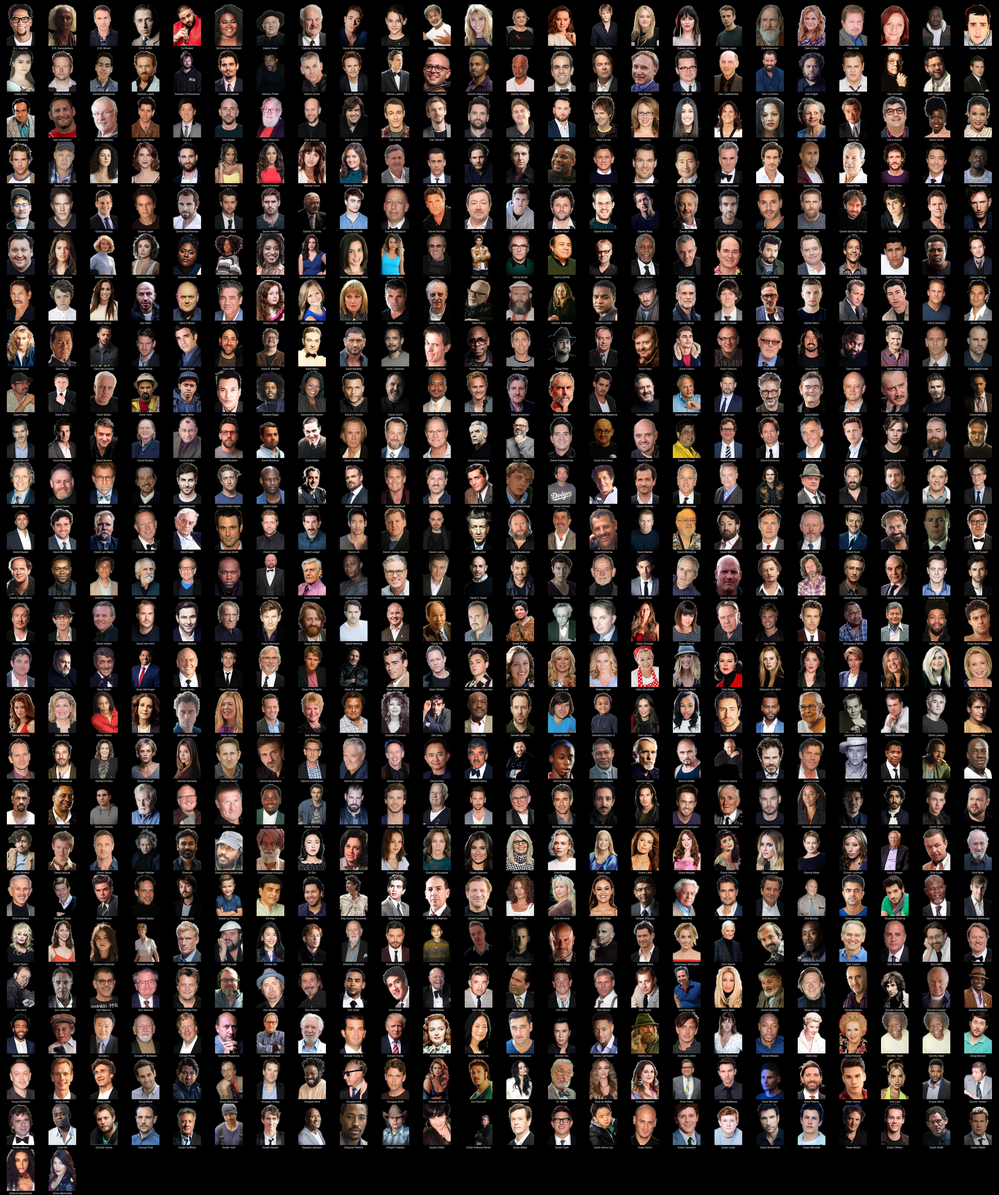
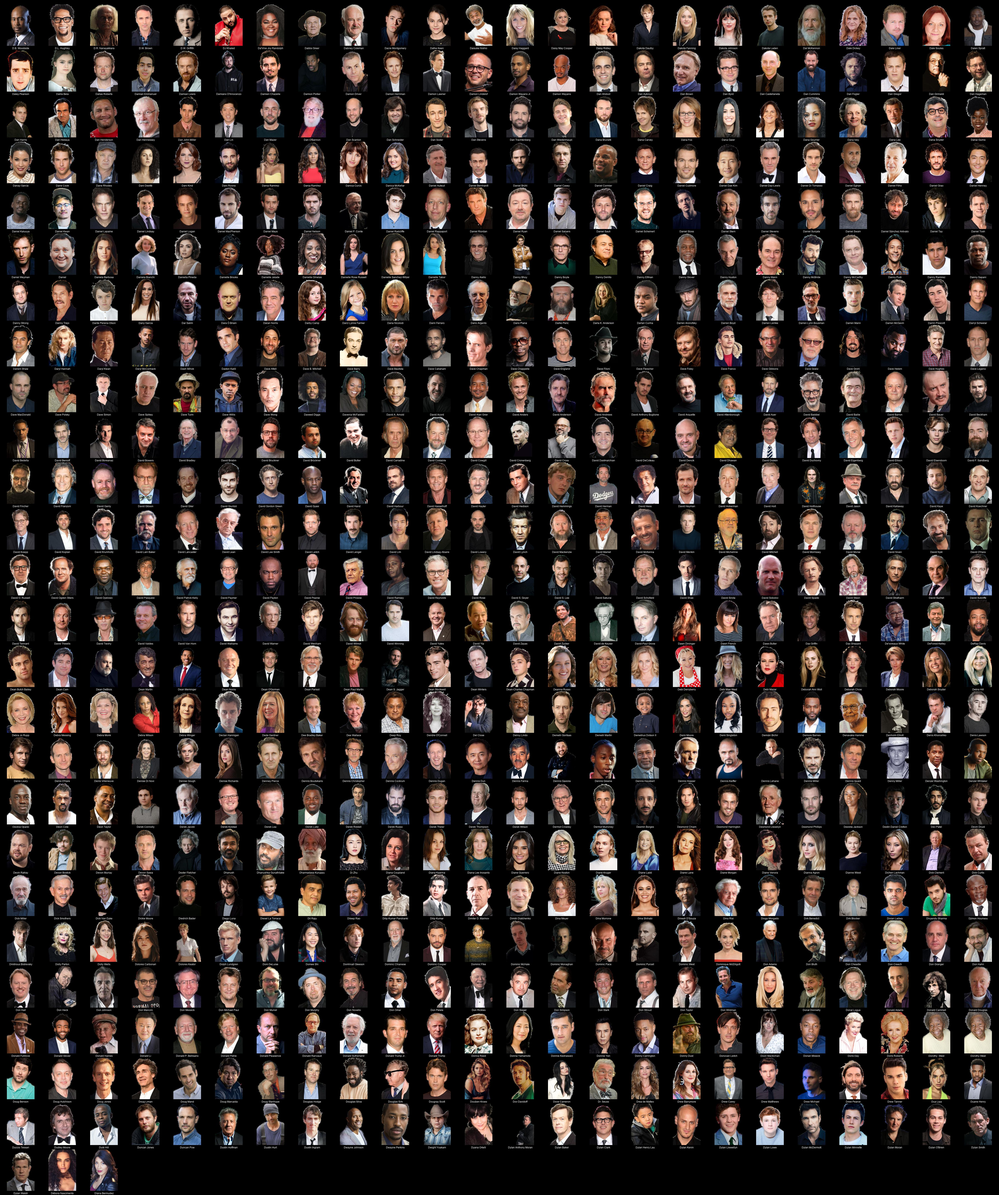
more people

diff --git a/A/README.md b/A/README.md
@@ -1,4 +1,4 @@
-# Kometa People Images - Transparent (transparent) - A (739 Images)
+# Kometa People Images - Transparent (transparent) - A (744 Images)
 ![Grid](grid.jpg)
 
 * [Aamir Khan](https://raw.githubusercontent.com/Kometa-Team/People-Images-transparent/master/A/Images/Aamir%20Khan.png)
@@ -19,6 +19,7 @@
 * [Aaron Ryder](https://raw.githubusercontent.com/Kometa-Team/People-Images-transparent/master/A/Images/Aaron%20Ryder.png)
 * [Aaron Schneider](https://raw.githubusercontent.com/Kometa-Team/People-Images-transparent/master/A/Images/Aaron%20Schneider.png)
 * [Aaron Schwartz](https://raw.githubusercontent.com/Kometa-Team/People-Images-transparent/master/A/Images/Aaron%20Schwartz.png)
+* [Aaron Seltzer](https://raw.githubusercontent.com/Kometa-Team/People-Images-transparent/master/A/Images/Aaron%20Seltzer.png)
 * [Aaron Sorkin](https://raw.githubusercontent.com/Kometa-Team/People-Images-transparent/master/A/Images/Aaron%20Sorkin.png)
 * [Aaron Stanford](https://raw.githubusercontent.com/Kometa-Team/People-Images-transparent/master/A/Images/Aaron%20Stanford.png)
 * [Aaron Taylor-Johnson](https://raw.githubusercontent.com/Kometa-Team/People-Images-transparent/master/A/Images/Aaron%20Taylor-Johnson.png)
@@ -188,6 +189,7 @@
 * [Alastair Mackenzie](https://raw.githubusercontent.com/Kometa-Team/People-Images-transparent/master/A/Images/Alastair%20Mackenzie.png)
 * [Alba Flores](https://raw.githubusercontent.com/Kometa-Team/People-Images-transparent/master/A/Images/Alba%20Flores.png)
 * [Alba Rohrwacher](https://raw.githubusercontent.com/Kometa-Team/People-Images-transparent/master/A/Images/Alba%20Rohrwacher.png)
+* [Albano Jerónimo](https://raw.githubusercontent.com/Kometa-Team/People-Images-transparent/master/A/Images/Albano%20Jer%C3%B3nimo.png)
 * [Albert Brooks](https://raw.githubusercontent.com/Kometa-Team/People-Images-transparent/master/A/Images/Albert%20Brooks.png)
 * [Albert Finney](https://raw.githubusercontent.com/Kometa-Team/People-Images-transparent/master/A/Images/Albert%20Finney.png)
 * [Albert Hughes](https://raw.githubusercontent.com/Kometa-Team/People-Images-transparent/master/A/Images/Albert%20Hughes.png)
@@ -431,6 +433,7 @@
 * [Andrew Garfield](https://raw.githubusercontent.com/Kometa-Team/People-Images-transparent/master/A/Images/Andrew%20Garfield.png)
 * [Andrew Havill](https://raw.githubusercontent.com/Kometa-Team/People-Images-transparent/master/A/Images/Andrew%20Havill.png)
 * [Andrew Jack](https://raw.githubusercontent.com/Kometa-Team/People-Images-transparent/master/A/Images/Andrew%20Jack.png)
+* [Andrew Kevin Walker](https://raw.githubusercontent.com/Kometa-Team/People-Images-transparent/master/A/Images/Andrew%20Kevin%20Walker.png)
 * [Andrew Koji](https://raw.githubusercontent.com/Kometa-Team/People-Images-transparent/master/A/Images/Andrew%20Koji.png)
 * [Andrew Lanham](https://raw.githubusercontent.com/Kometa-Team/People-Images-transparent/master/A/Images/Andrew%20Lanham.png)
 * [Andrew Lau](https://raw.githubusercontent.com/Kometa-Team/People-Images-transparent/master/A/Images/Andrew%20Lau.png)
@@ -535,6 +538,7 @@
 * [Anna Torv](https://raw.githubusercontent.com/Kometa-Team/People-Images-transparent/master/A/Images/Anna%20Torv.png)
 * [Anna Wilson-Jones](https://raw.githubusercontent.com/Kometa-Team/People-Images-transparent/master/A/Images/Anna%20Wilson-Jones.png)
 * [Anna-Grace Hopkins](https://raw.githubusercontent.com/Kometa-Team/People-Images-transparent/master/A/Images/Anna-Grace%20Hopkins.png)
+* [Anna-Maria Sieklucka](https://raw.githubusercontent.com/Kometa-Team/People-Images-transparent/master/A/Images/Anna-Maria%20Sieklucka.png)
 * [AnnaSophia Robb](https://raw.githubusercontent.com/Kometa-Team/People-Images-transparent/master/A/Images/AnnaSophia%20Robb.png)
 * [Annabel Scholey](https://raw.githubusercontent.com/Kometa-Team/People-Images-transparent/master/A/Images/Annabel%20Scholey.png)
 * [Annabelle Wallis](https://raw.githubusercontent.com/Kometa-Team/People-Images-transparent/master/A/Images/Annabelle%20Wallis.png)
@@ -615,6 +619,7 @@
 * [Anurag Kashyap](https://raw.githubusercontent.com/Kometa-Team/People-Images-transparent/master/A/Images/Anurag%20Kashyap.png)
 * [Anushka Shetty](https://raw.githubusercontent.com/Kometa-Team/People-Images-transparent/master/A/Images/Anushka%20Shetty.png)
 * [Anuvab Pal](https://raw.githubusercontent.com/Kometa-Team/People-Images-transparent/master/A/Images/Anuvab%20Pal.png)
+* [Anya Chalotra](https://raw.githubusercontent.com/Kometa-Team/People-Images-transparent/master/A/Images/Anya%20Chalotra.png)
 * [Anya Taylor-Joy](https://raw.githubusercontent.com/Kometa-Team/People-Images-transparent/master/A/Images/Anya%20Taylor-Joy.png)
 * [Aoi Miyazaki](https://raw.githubusercontent.com/Kometa-Team/People-Images-transparent/master/A/Images/Aoi%20Miyazaki.png)
 * [Aparshakti Khurana](https://raw.githubusercontent.com/Kometa-Team/People-Images-transparent/master/A/Images/Aparshakti%20Khurana.png)

diff --git a/B/README.md b/B/README.md
@@ -1,4 +1,4 @@
-# Kometa People Images - Transparent (transparent) - B (459 Images)
+# Kometa People Images - Transparent (transparent) - B (460 Images)
 ![Grid](grid.jpg)
 
 * [B.J. Penn](https://raw.githubusercontent.com/Kometa-Team/People-Images-transparent/master/B/Images/B.J.%20Penn.png)
@@ -14,6 +14,7 @@
 * [Bam Margera](https://raw.githubusercontent.com/Kometa-Team/People-Images-transparent/master/B/Images/Bam%20Margera.png)
 * [Bambadjan Bamba](https://raw.githubusercontent.com/Kometa-Team/People-Images-transparent/master/B/Images/Bambadjan%20Bamba.png)
 * [Barack Obama](https://raw.githubusercontent.com/Kometa-Team/People-Images-transparent/master/B/Images/Barack%20Obama.png)
+* [Barbara Białowąs](https://raw.githubusercontent.com/Kometa-Team/People-Images-transparent/master/B/Images/Barbara%20Bia%C5%82ow%C4%85s.png)
 * [Barbara Bouchet](https://raw.githubusercontent.com/Kometa-Team/People-Images-transparent/master/B/Images/Barbara%20Bouchet.png)
 * [Barbara Broccoli](https://raw.githubusercontent.com/Kometa-Team/People-Images-transparent/master/B/Images/Barbara%20Broccoli.png)
 * [Barbara Carrera](https://raw.githubusercontent.com/Kometa-Team/People-Images-transparent/master/B/Images/Barbara%20Carrera.png)

diff --git a/D/README.md b/D/README.md
@@ -1,6 +1,7 @@
-# Kometa People Images - Transparent (transparent) - D (602 Images)
+# Kometa People Images - Transparent (transparent) - D (603 Images)
 ![Grid](grid.jpg)
 
+* [D.B. Woodside](https://raw.githubusercontent.com/Kometa-Team/People-Images-transparent/master/D/Images/D.B.%20Woodside.png)
 * [D.L. Hughley](https://raw.githubusercontent.com/Kometa-Team/People-Images-transparent/master/D/Images/D.L.%20Hughley.png)
 * [D.R. Nanayakkara](https://raw.githubusercontent.com/Kometa-Team/People-Images-transparent/master/D/Images/D.R.%20Nanayakkara.png)
 * [D.W. Brown](https://raw.githubusercontent.com/Kometa-Team/People-Images-transparent/master/D/Images/D.W.%20Brown.png)
